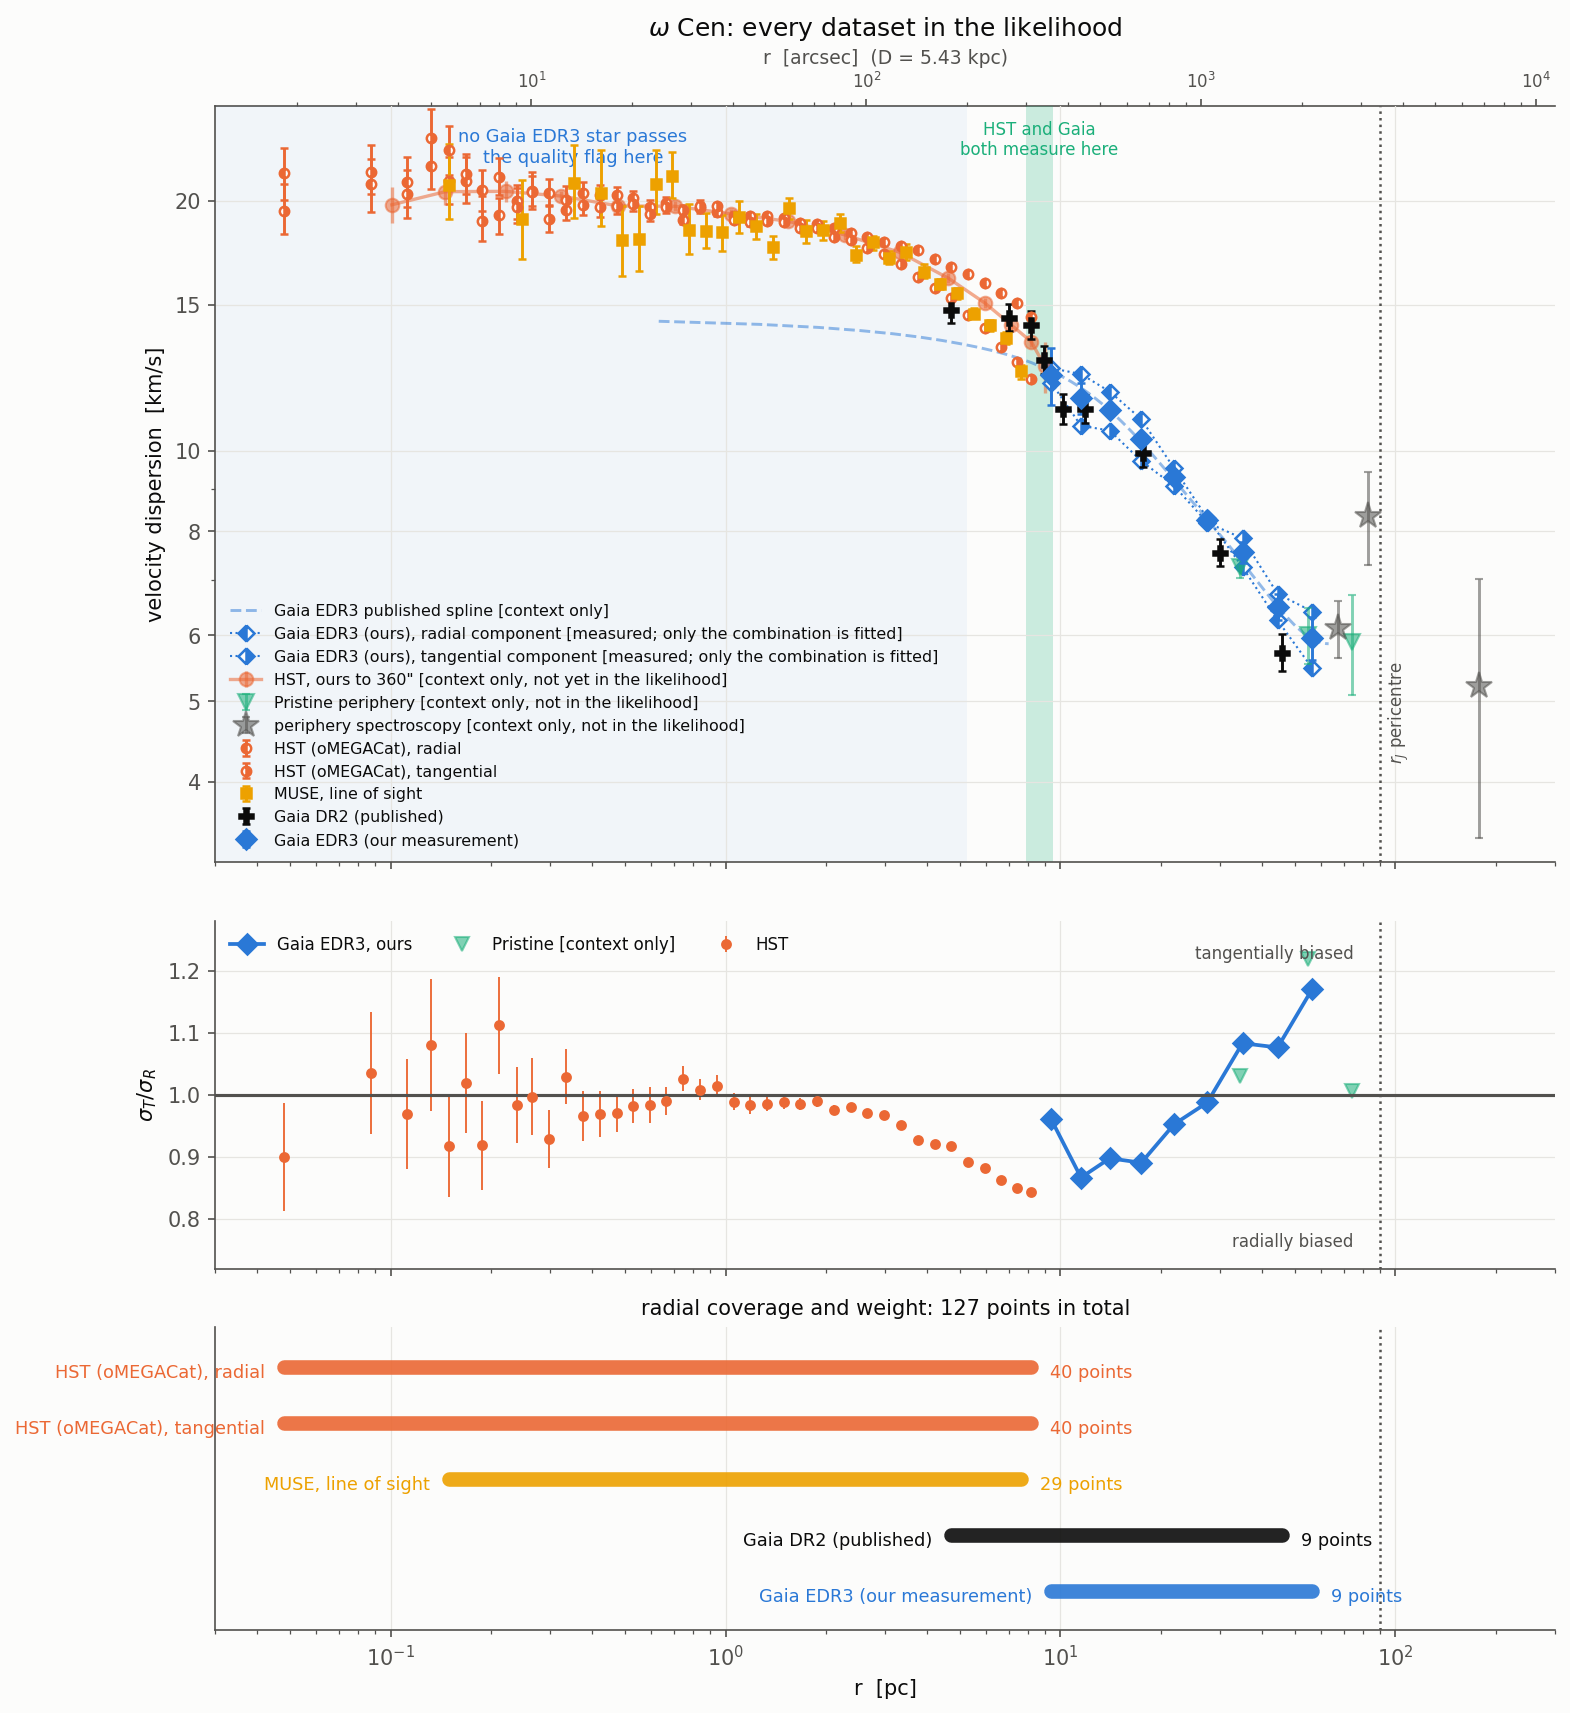
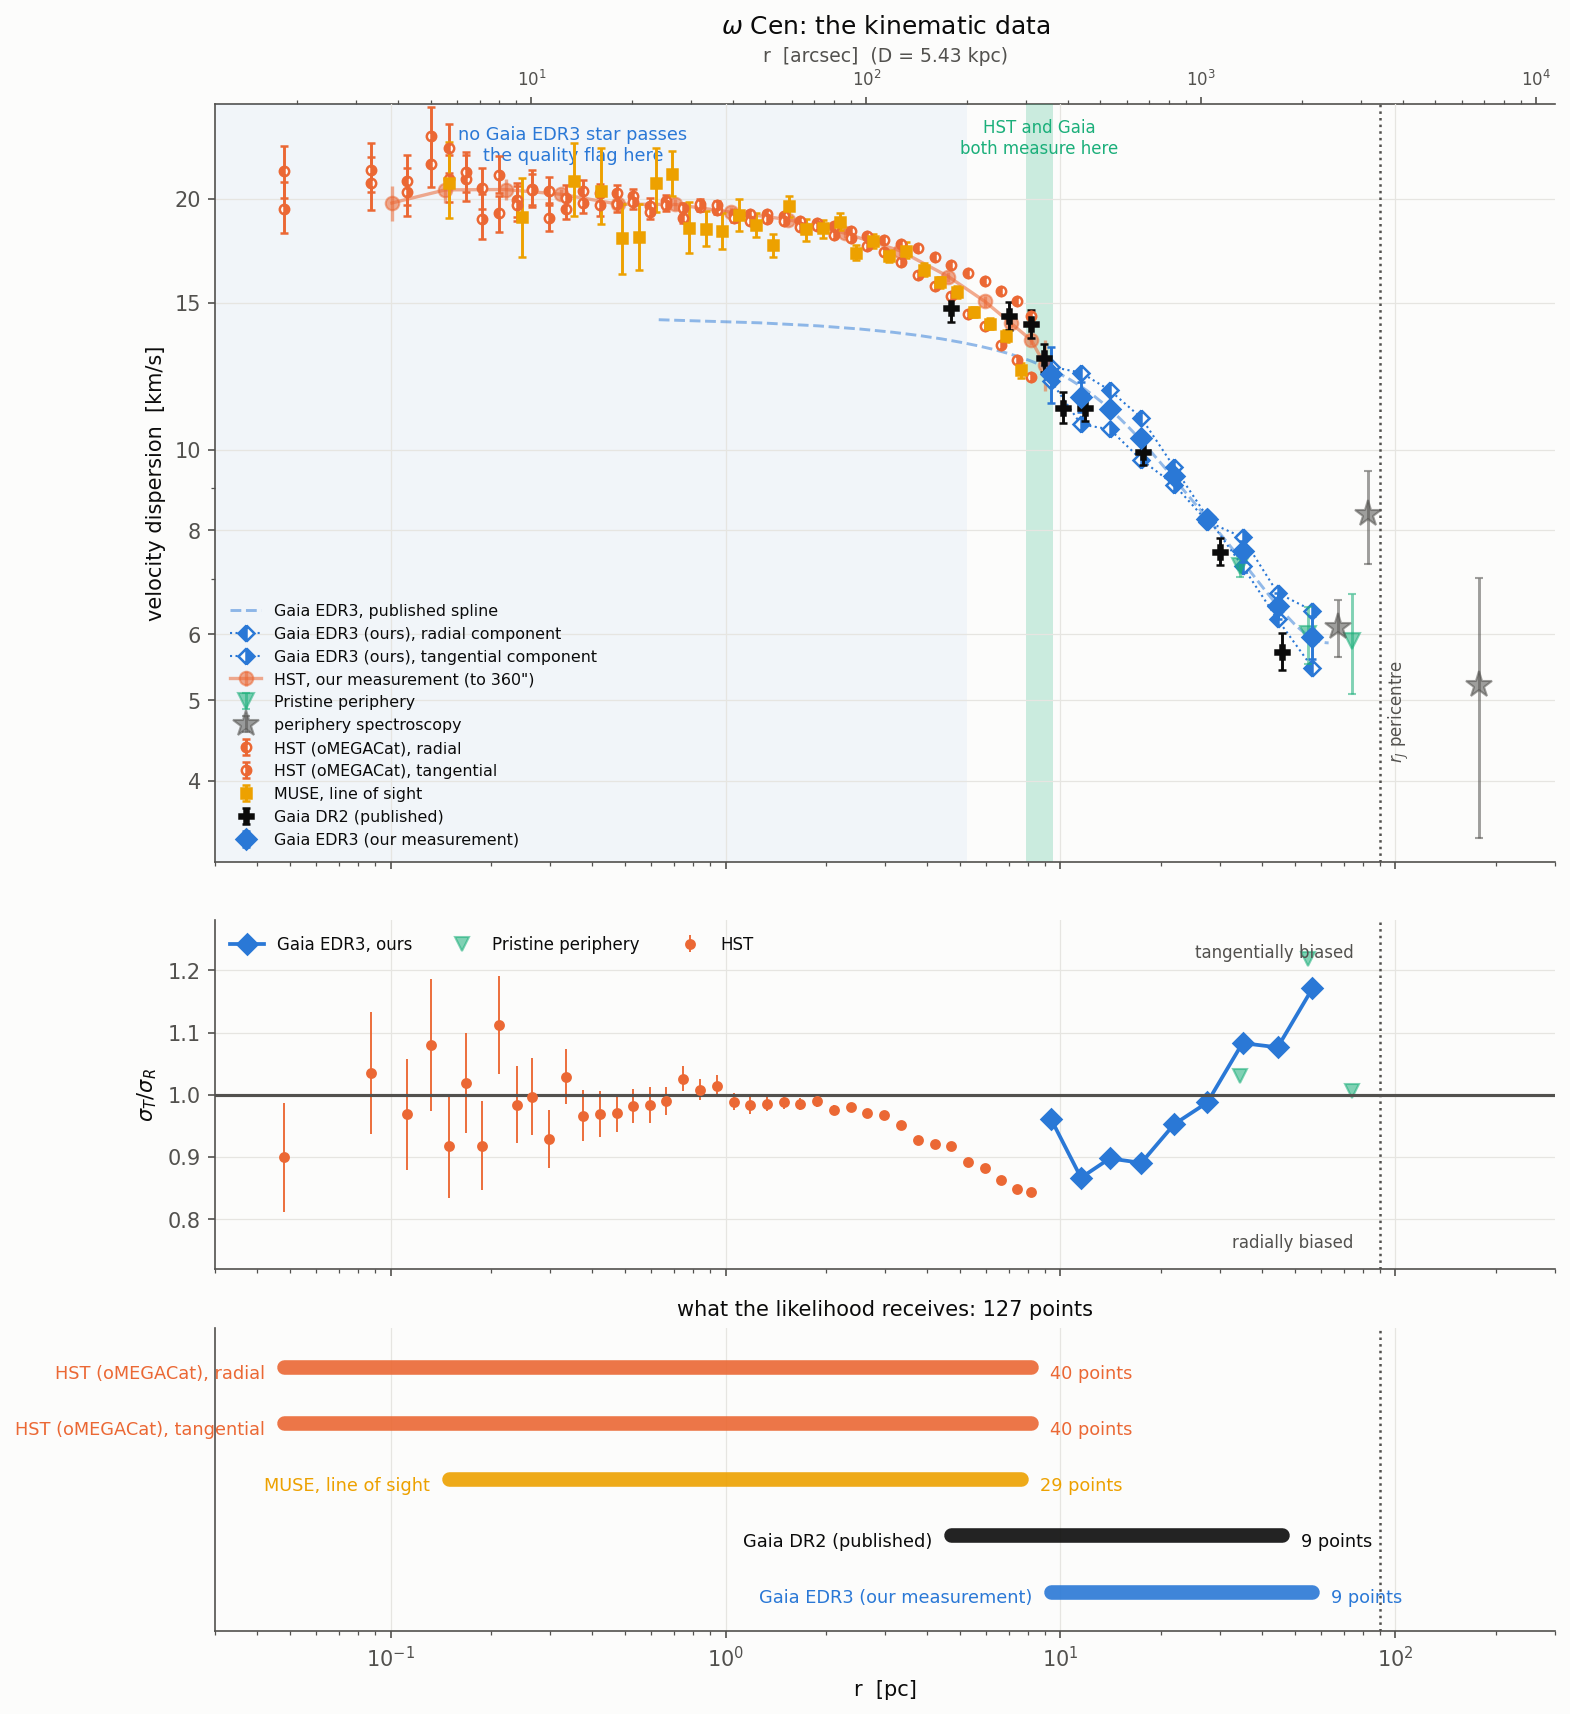
Drop the fitted/not-fitted tags from the legends
The distinction was bookkeeping that cluttered every legend entry and will change
as soon as the HST dataset is extended. Which datasets the likelihood receives is
now stated once, in the coverage panel title, and the top panel is simply the
kinematic data.

diff --git a/src/ocen_dm/plotting/constraints.py b/src/ocen_dm/plotting/constraints.py
@@ -1457,12 +1457,12 @@ def plot_master_datasets(path: Path | str = "plots/master_datasets.png",
     from ..kinematics.hst_profile import hst_profile
     rp, sp = published_profile()
     a1.plot(pc(rp[rp > 0]), sp[rp > 0] * k, color=style.SERIES[0], lw=1.4, ls="--", alpha=0.5,
-            label="Gaia EDR3 published spline [context only]")
+            label="Gaia EDR3, published spline")
     hst_ours = hst_profile(edges_arcsec=tuple(np.concatenate(
         [np.geomspace(3.0, 150.0, 11), [200., 250., 300., 340., 360.]])), min_stars=40)
     a1.errorbar(pc(hst_ours["r_median"]), np.asarray(hst_ours["sigma_pm"]) * k,
                 yerr=np.asarray(hst_ours["sigma_pm_err"]) * k, linestyle="-", lw=1.6,
-                label="HST, ours to 360\" [context only, not yet in the likelihood]",
+                label="HST, our measurement (to 360\")",
                 **dataset_style("hst", size=6.5, fitted=False))
     a1.axvspan(pc(300.0), pc(360.0), color=style.SERIES[2], alpha=0.22, lw=0)
     a1.annotate("HST and Gaia\nboth measure here", (pc(328.0), 25.0), fontsize=8,
@@ -1488,7 +1488,7 @@ def plot_master_datasets(path: Path | str = "plots/master_datasets.png",
         for col, comp in (("sigma_pmr", "radial"), ("sigma_pmt", "tangential")):
             st = dataset_style("gaia_edr3", comp, size=5.5)
             a1.plot(pc(g["r_median"]), np.asarray(g[col]) * k, ls=":", lw=1.0, **st,
-                    label="Gaia EDR3 (ours), %s component [measured; only the combination is fitted]" % comp)
+                    label="Gaia EDR3 (ours), %s component" % comp)
 
     a1.axvspan(0.03, 200 * distance_kpc * 1e3 / 206264.806, color=style.SERIES[0],
                alpha=0.05, lw=0)
@@ -1502,7 +1502,7 @@ def plot_master_datasets(path: Path | str = "plots/master_datasets.png",
     a1.set_yticks([4, 5, 6, 8, 10, 15, 20]); a1.set_yticklabels(["4", "5", "6", "8", "10", "15", "20"])
     a1.set_ylabel("velocity dispersion  [km/s]")
     a1.legend(fontsize=7.6, loc="lower left", framealpha=0.93)
-    a1.set_title("$\\omega$ Cen: every dataset in the likelihood", fontsize=12)
+    a1.set_title("$\\omega$ Cen: the kinematic data", fontsize=12)
     add_arcsec_axis(a1, distance_kpc)
 
     # --- anisotropy ----------------------------------------------------------------
@@ -1518,7 +1518,7 @@ def plot_master_datasets(path: Path | str = "plots/master_datasets.png",
     st = dataset_style("pristine", "combined", size=7.0, fitted=False)
     a3.plot(np.asarray(pr["r_pc"])[ok],
             np.asarray(pr["sigma_pmt"])[ok] / np.asarray(pr["sigma_pmr"])[ok],
-            ls="none", label="Pristine [context only]", **st)
+            ls="none", label="Pristine periphery", **st)
     a3.axhline(1.0, color=style.INK_SECONDARY, lw=1.5)
     a3.annotate("tangentially biased", (75, 1.22), fontsize=8, color=style.INK_SECONDARY, ha="right")
     a3.annotate("radially biased", (75, 0.755), fontsize=8, color=style.INK_SECONDARY, ha="right")
@@ -1538,7 +1538,7 @@ def plot_master_datasets(path: Path | str = "plots/master_datasets.png",
     a2.axvline(R_JACOBI_PERI_PC, color=style.INK_SECONDARY, lw=1.2, ls=":")
     a2.set_ylim(0.3, len(spans) + 0.7); a2.set_yticks([])
     a2.set_xscale("log"); a2.set_xlabel("r  [pc]"); a2.set_xlim(0.03, 300)
-    a2.set_title("radial coverage and weight: %d points in total" % sum(s[3] for s in spans),
+    a2.set_title("what the likelihood receives: %d points" % sum(s[3] for s in spans),
                  fontsize=10)
     fig.tight_layout()
     path = Path(path); path.parent.mkdir(parents=True, exist_ok=True)

diff --git a/src/ocen_dm/plotting/style.py b/src/ocen_dm/plotting/style.py
@@ -131,10 +131,9 @@ def dataset_style(key: str, component: str = "combined", size: float = 6.5,
                   fitted: bool = True) -> dict:
     """Marker keyword arguments for one dataset and component.
 
-    ``fitted=False`` means the dataset is drawn for context and is **not** among those the
-    likelihood receives; it keeps the same symbol and colour and is lightened, so that data
-    shown for context are never mistaken for a different instrument. It does not mean a model
-    failed to describe it.
+    ``fitted=False`` only lightens the mark, for data shown alongside the primary ones. The
+    label is unchanged: which datasets the likelihood receives is stated once, in the
+    coverage panel, not repeated on every legend entry.
     """
     if key in DATASET_KEY_MAP:
         key, component = DATASET_KEY_MAP[key]
@@ -154,4 +153,4 @@ def dataset_label(key: str, component: str = "combined", fitted: bool = True) ->
     text = DATASET_STYLE[key]["label"]
     if component != "combined":
         text += ", %s" % component
-    return text if fitted else "%s [context only, not in the likelihood]" % text
+    return text
